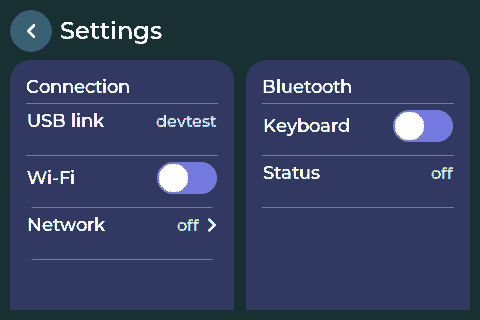
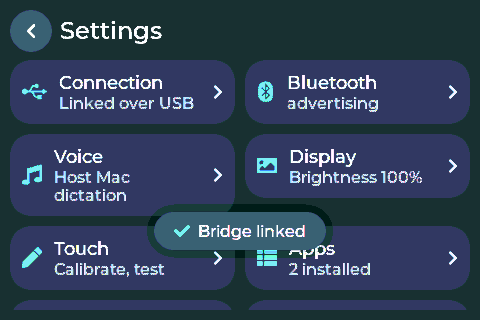
Settings as a section menu with light per-section screens (fixes the 4-inch layout and the out-of-memory crash); ui.show settings:<n>; gadget profile for the 4-inch ST7796 board

diff --git a/firmware/src/ui/ui_settings.cpp b/firmware/src/ui/ui_settings.cpp
@@ -51,17 +51,26 @@ static void doRemoveApplets() { for (auto& a : applets::list()) applets::remove(
 static void cbRemoveApplets(lv_event_t*) { confirm("Remove all applets?", "Every installed applet and its saved state is erased.", doRemoveApplets); }
 static void cbClearAutostart(lv_event_t*) { for (auto& a : applets::list()) if (a.autostart) applets::setAutostart(a.id, false); toast("Boots to the home screen"); showSettings(); }
 
-void showSettings() {
-  lv_obj_t* scr = newScreen(); statusBar(scr, "", "Settings", true);
-  lv_obj_t* list = scrollList(scr);
-  lv_obj_t* L = list, *R = list;
-  if (big()) {   // two columns of cards inside the scrolling list
-    lv_obj_t* row2 = lv_obj_create(list); lv_obj_remove_style_all(row2); lv_obj_set_size(row2, LV_PCT(100), LV_SIZE_CONTENT); lv_obj_set_flex_flow(row2, LV_FLEX_FLOW_ROW); lv_obj_set_flex_align(row2, LV_FLEX_ALIGN_START, LV_FLEX_ALIGN_START, LV_FLEX_ALIGN_START); lv_obj_set_style_pad_column(row2, 12, 0);
-    auto col = [&]() { lv_obj_t* c = lv_obj_create(row2); lv_obj_remove_style_all(c); lv_obj_set_flex_grow(c, 1); lv_obj_set_height(c, LV_SIZE_CONTENT); lv_obj_set_flex_flow(c, LV_FLEX_FLOW_COLUMN); lv_obj_set_style_pad_row(c, 12, 0); lv_obj_clear_flag(c, LV_OBJ_FLAG_SCROLLABLE); return c; };
-    L = col(); R = col();
+// Settings is a menu of sections; each section is its own light screen (a few rows), so even with a radio
+// stack resident there is heap to spare, and 480-wide boards get one calm column instead of a wall of rows.
+static int s_section = -1;
+static const char* kSectionNames[] = {"Connection", "Bluetooth", "Voice", "Display", "Touch", "Apps", "Storage", "About"};
+static const char* kSectionIcons[] = {LV_SYMBOL_USB, LV_SYMBOL_BLUETOOTH, LV_SYMBOL_AUDIO, LV_SYMBOL_IMAGE, LV_SYMBOL_EDIT, LV_SYMBOL_LIST, LV_SYMBOL_SD_CARD, LV_SYMBOL_SETTINGS};
+static String sectionSummary(int i) {
+  switch (i) {
+    case 0: return app::bridgeLinked() ? "Linked over " + app::linkSummary() : (g_settings.wifiEnabled ? bridge::wifiStatus() : String("USB, Wi-Fi off"));
+    case 1: return g_settings.bleEnabled ? blehid::status() : String("off");
+    case 2: return g_settings.dictSource == 1 ? "Device mic" : "Host Mac dictation";
+    case 3: { char b[24]; snprintf(b, sizeof(b), "Brightness %u%%", (unsigned)(g_settings.brightness * 100 / 255)); return b; }
+    case 4: return "Calibrate, test";
+    case 5: { char b[24]; snprintf(b, sizeof(b), "%u installed", (unsigned)applets::list().size()); return b; }
+    case 6: return sdInfo();
+    default: return "Musecorder " AITL_FW_VERSION;
   }
-
-  lv_obj_t* c = sectionCard(L, "Connection");
+}
+static void buildSection(lv_obj_t* c, int i) {
+  switch (i) {
+    case 0: {
   addAction(c, "USB link", app::bridgeLinked() && app::linkSummary() == "USB" ? app::bridgeName.c_str() : "plug in, run musecorder serve", nullptr, nullptr);
   addSwitch(c, "Wi-Fi", g_settings.wifiEnabled, cbWifi, nullptr);
   addAction(c, "Network", bridge::wifiStatus().c_str(), cbSsid, nullptr);
@@ -69,49 +78,49 @@ void showSettings() {
   addAction(c, "Bridge", bridge::bridgeStatus().c_str(), nullptr, nullptr);
   addAction(c, "Pair over network", bridge::hasBridgeCert() ? "paired (re-pair)" : "start", cbPair, nullptr);
   if (bridge::hasBridgeCert()) addAction(c, "Forget bridge", "", cbForget, nullptr);
-
-  c = sectionCard(R, "Bluetooth");
+      break; }
+    case 1: {
   addSwitch(c, big() ? "Keyboard" : "Bluetooth keyboard", g_settings.bleEnabled, cbBle, nullptr);
   addAction(c, "Status", blehid::status().c_str(), nullptr, nullptr);
   addDropdown(c, "Keystrokes via", "Bridge (USB/Wi-Fi)\nBluetooth HID", g_settings.hidTarget, cbHidTarget, nullptr);
   addDropdown(c, "BLE dictation key", "Right Cmd x2\nCtrl x2\nF5\nCmd+Opt+D", g_settings.dictShortcut, cbDictSc, nullptr);
   addSwitch(c, big() ? "Bridge link" : "Bridge link over BLE", g_settings.bleLink, cbBleLink, nullptr);
-
-  c = sectionCard(L, "Voice");
+      break; }
+    case 2: {
   addDropdown(c, "Microphone", "Host Mac\nDevice mic (P3)", g_settings.dictSource, cbDictSrc, nullptr);
   addDropdown(c, "Device mic sends to", "Ask Muse\nType into Mac", g_settings.dictTarget, cbDictTgt, nullptr);
   addSlider(c, "Mic gain", 1, 8, g_settings.micGain, cbMicGain, nullptr);
   addAction(c, "Mic test", "", cbMicTest, nullptr);
-
-  c = sectionCard(R, "Display");
+      break; }
+    case 3: {
   addSlider(c, "Brightness", 10, 255, g_settings.brightness, cbBright, nullptr);
   { static const uint16_t v[] = {10, 30, 60, 120, 300, 600, 0}; uint16_t sel = 3; for (int i = 0; i < 7; i++) if (v[i] == g_settings.screenTimeout) sel = i;
     addDropdown(c, "Dim after", "10 s\n30 s\n1 min\n2 min\n5 min\n10 min\nNever", sel, cbTimeout, nullptr); }
   addDropdown(c, "Rotation", "Portrait\nLandscape A\nPortrait flipped\nLandscape B", g_settings.rotation & 3, cbRotate, nullptr);
   addSwitch(c, "Invert colors", g_settings.invertColors, cbInvert, nullptr);
   addSwitch(c, "Swap red and blue", g_settings.bgrOrder, cbBgr, nullptr);
-
-  c = sectionCard(R, "Touch");
+      break; }
+    case 4: {
   addAction(c, "Calibrate touch", "", cbCal, nullptr);
   addAction(c, "Touch test", "draw", cbTouchTest, nullptr);
   { static const uint16_t v[] = {250, 400, 600, 900}; uint16_t sel = 1; for (int i = 0; i < 4; i++) if (v[i] == g_settings.longPressMs) sel = i;
     addDropdown(c, "Long-press time", "250 ms\n400 ms\n600 ms\n900 ms", sel, cbLongPress, nullptr); }
   addDropdown(c, "Sensitivity", "Instant\nNormal\nFirm\nDeliberate", g_settings.touchDebounce - 1, cbDebounce, nullptr);
   addSwitch(c, "LED flash on tap", g_settings.hapticLed, cbTapLed, nullptr);
-
-  c = sectionCard(L, "Apps");
+      break; }
+    case 5: {
   { auto apps = applets::list(); String auto_; for (auto& a : apps) if (a.autostart) auto_ = a.name;
     char n[40]; snprintf(n, sizeof(n), "%u installed", (unsigned)apps.size()); addAction(c, "Applets", n, cbApps, nullptr);
     addAction(c, "Running", applets::running() ? applets::runningName().c_str() : "none", nullptr, nullptr);
     addAction(c, "Open on boot", auto_.length() ? auto_.c_str() : "off", auto_.length() ? cbClearAutostart : nullptr, nullptr);
     { size_t tot = LittleFS.totalBytes(), used = LittleFS.usedBytes(); char f[40]; snprintf(f, sizeof(f), "%u KB free of %u", (unsigned)((tot - used) / 1024), (unsigned)(tot / 1024)); addAction(c, "Storage", f, nullptr, nullptr); }
     if (!apps.empty()) addAction(c, "Remove all applets", "", cbRemoveApplets, nullptr); }
-
-  c = sectionCard(L, "Storage");
+      break; }
+    case 6: {
   addAction(c, "microSD", sdInfo().c_str(), nullptr, nullptr);
   addSwitch(c, "Log chats to microSD", g_settings.sdLog, cbSdLog, nullptr);
-
-  c = sectionCard(R, "About");
+      break; }
+    case 7: {
   addAction(c, "Firmware", "Musecorder " AITL_FW_VERSION " / " AITL_BOARD_NAME, nullptr, nullptr);
   addAction(c, "Device ID", app::deviceId().c_str(), nullptr, nullptr);
   { String b = app::bridgeName.length() ? app::bridgeName + " " + app::bridgeVersion : String("none"); addAction(c, "Bridge", b.c_str(), nullptr, nullptr); }
@@ -122,6 +131,42 @@ void showSettings() {
   addAction(c, "Run setup again", "", cbWizard, nullptr);
   addAction(c, "Restart", "", cbReboot, nullptr);
   addAction(c, "Factory reset", "", cbReset, nullptr);
+      break; }
+    default: break;
+  }
+}
+static void evSection(lv_event_t* e) { s_section = (int)(uintptr_t)lv_event_get_user_data(e); showSettings(); }
+static void evSectionsBack(lv_event_t*) { s_section = -1; showSettings(); }
+void showSettingsRoot() { s_section = -1; showSettings(); }
+void showSettingsSection(int i) { s_section = (i >= 0 && i < 8) ? i : -1; showSettings(); }
+void showSettings() {
+  lv_obj_t* scr = newScreen();
+  if (s_section < 0) {
+    statusBar(scr, "", "Settings", true);
+    lv_obj_t* list = scrollList(scr);
+    lv_obj_t* grid = lv_obj_create(list); lv_obj_remove_style_all(grid); lv_obj_set_size(grid, LV_PCT(100), LV_SIZE_CONTENT);
+    lv_obj_set_flex_flow(grid, LV_FLEX_FLOW_ROW_WRAP); lv_obj_set_style_pad_gap(grid, big() ? 10 : 6, 0);
+    for (int i = 0; i < 8; i++) {
+      lv_obj_t* b = lv_btn_create(grid); lv_obj_remove_style_all(b); lv_obj_add_style(b, &card, 0); lv_obj_add_style(b, &pressed, LV_STATE_PRESSED);
+      lv_obj_set_width(b, big() ? LV_PCT(49) : LV_PCT(100)); lv_obj_set_height(b, LV_SIZE_CONTENT); lv_obj_set_style_pad_all(b, big() ? 12 : 10, 0);
+      lv_obj_set_flex_flow(b, LV_FLEX_FLOW_ROW); lv_obj_set_flex_align(b, LV_FLEX_ALIGN_START, LV_FLEX_ALIGN_CENTER, LV_FLEX_ALIGN_CENTER); lv_obj_set_style_pad_column(b, big() ? 12 : 10, 0);
+      lv_obj_t* ic = makeLabel(b, kSectionIcons[i], &body); lv_obj_set_style_text_color(ic, lv_color_hex(MU_TEAL), 0); lv_obj_set_style_text_font(ic, big() ? &lv_font_montserrat_20 : &lv_font_montserrat_16, 0);
+      lv_obj_t* col = lv_obj_create(b); lv_obj_remove_style_all(col); lv_obj_set_flex_grow(col, 1); lv_obj_set_height(col, LV_SIZE_CONTENT); lv_obj_set_flex_flow(col, LV_FLEX_FLOW_COLUMN); lv_obj_set_style_pad_row(col, 1, 0);
+      lv_obj_t* t = makeLabel(col, kSectionNames[i], &body); lv_obj_set_width(t, LV_PCT(100)); lv_label_set_long_mode(t, LV_LABEL_LONG_DOT);
+      lv_obj_t* sm = makeLabel(col, sectionSummary(i).c_str(), &caption); lv_obj_set_width(sm, LV_PCT(100)); lv_label_set_long_mode(sm, LV_LABEL_LONG_DOT);
+      lv_obj_t* ch = makeLabel(b, LV_SYMBOL_RIGHT, &caption); lv_obj_set_style_text_color(ch, lv_color_hex(MU_DIM), 0);
+      lv_obj_add_event_cb(b, evSection, LV_EVENT_CLICKED, (void*)(uintptr_t)i);
+    }
+    load(scr); return;
+  }
+  // one section: custom bar (back returns to the menu, not home)
+  lv_obj_t* bar = lv_obj_create(scr); lv_obj_remove_style_all(bar); lv_obj_set_size(bar, LV_PCT(100), chipH() + 8);
+  lv_obj_set_flex_flow(bar, LV_FLEX_FLOW_ROW); lv_obj_set_flex_align(bar, LV_FLEX_ALIGN_START, LV_FLEX_ALIGN_CENTER, LV_FLEX_ALIGN_CENTER); lv_obj_set_style_pad_column(bar, 8, 0);
+  lv_obj_t* bk = makeIconButton(bar, LV_SYMBOL_LEFT, chipH() + 8, evSectionsBack); lv_obj_set_ext_click_area(bk, 10);
+  lv_obj_t* t = makeLabel(bar, kSectionNames[s_section], &title); lv_obj_set_style_text_font(t, big() ? &lv_font_montserrat_24 : &lv_font_montserrat_18, 0); lv_obj_set_flex_grow(t, 1);
+  lv_obj_t* list = scrollList(scr);
+  lv_obj_t* c = makeCard(list); lv_obj_set_style_pad_row(c, 0, 0); lv_obj_set_width(c, LV_PCT(100));
+  buildSection(c, s_section);
   load(scr);
 }
 

diff --git a/gadget/port/apply.py b/gadget/port/apply.py
@@ -18,15 +18,16 @@ def edit(path: pathlib.Path, pairs, must=True):
         path.write_text(s, encoding="utf-8"); print("  patched", path.relative_to(root))
 
 shutil.copy(here / "sdkconfig.cyd24", root / "devices" / "sdkconfig.cyd24")
+shutil.copy(here / "sdkconfig.cyd40", root / "devices" / "sdkconfig.cyd40")
 shutil.copy(here / "partitions_cyd24_4mb.csv", root / "partitions_cyd24_4mb.csv")
-print("  copied devices/sdkconfig.cyd24, partitions_cyd24_4mb.csv")
+print("  copied devices/sdkconfig.cyd24, devices/sdkconfig.cyd40, partitions_cyd24_4mb.csv")
 
 k = root / "main" / "Kconfig.projbuild"
 if MARK not in k.read_text():
     edit(k, [
         ('        config HOMEHUB_LED_BACKEND_WAVESHARE_C6_ST7789\n            bool "Waveshare ESP32-C6-LCD-1.47 inch ST7789 display (status bars)"\n            depends on IDF_TARGET_ESP32C6\n',
-         '        config HOMEHUB_LED_BACKEND_WAVESHARE_C6_ST7789\n            bool "Waveshare ESP32-C6-LCD-1.47 inch ST7789 display (status bars)"\n            depends on IDF_TARGET_ESP32C6\n\n        config HOMEHUB_LED_BACKEND_CYD_ILI9341\n            bool "Sunton CYD 2.4/2.8 inch ILI9341 display (status bars)"\n            depends on IDF_TARGET_ESP32\n'),
-        ('        default y if HOMEHUB_LED_BACKEND_WAVESHARE_C6_ST7789\n', '        default y if HOMEHUB_LED_BACKEND_WAVESHARE_C6_ST7789\n        default y if HOMEHUB_LED_BACKEND_CYD_ILI9341\n'),
+         '        config HOMEHUB_LED_BACKEND_WAVESHARE_C6_ST7789\n            bool "Waveshare ESP32-C6-LCD-1.47 inch ST7789 display (status bars)"\n            depends on IDF_TARGET_ESP32C6\n\n        config HOMEHUB_LED_BACKEND_CYD_ILI9341\n            bool "Sunton CYD 2.4/2.8 inch ILI9341 display (status bars)"\n            depends on IDF_TARGET_ESP32\n\n        config HOMEHUB_LED_BACKEND_CYD_ST7796\n            bool "Hosyond 4.0 inch ST7796 display (status bars)"\n            depends on IDF_TARGET_ESP32\n'),
+        ('        default y if HOMEHUB_LED_BACKEND_WAVESHARE_C6_ST7789\n', '        default y if HOMEHUB_LED_BACKEND_WAVESHARE_C6_ST7789\n        default y if HOMEHUB_LED_BACKEND_CYD_ILI9341\n        default y if HOMEHUB_LED_BACKEND_CYD_ST7796\n'),
     ])
 
 c = root / "main" / "led_status.c"
@@ -34,8 +35,8 @@ if MARK not in c.read_text():
     s = c.read_text(encoding="utf-8")
     both = "CONFIG_HOMEHUB_LED_BACKEND_IDEASPARK_ST7789 || CONFIG_HOMEHUB_LED_BACKEND_WAVESHARE_C6_ST7789"
     n = s.count(f"#if {both}")
-    s = s.replace(f"#if {both}", f"#if {both} || CONFIG_{MARK}")
-    s = s.replace('#include "esp_lcd_panel_st7789.h"\n', f'#include "esp_lcd_panel_st7789.h"\n#if CONFIG_{MARK}\n#include "esp_lcd_panel_ili9341.h"\n#endif\n', 1)
+    s = s.replace(f"#if {both}", f"#if {both} || CONFIG_{MARK} || CONFIG_HOMEHUB_LED_BACKEND_CYD_ST7796")
+    s = s.replace('#include "esp_lcd_panel_st7789.h"\n', f'#include "esp_lcd_panel_st7789.h"\n#if CONFIG_{MARK}\n#include "esp_lcd_panel_ili9341.h"\n#endif\n#if CONFIG_HOMEHUB_LED_BACKEND_CYD_ST7796\n#include "esp_lcd_panel_st7796.h"\n#endif\n', 1)
     block = f'''#elif CONFIG_{MARK}
 // Sunton ESP32-2432S024C / 2432S028: 240x320 ILI9341 on HSPI, backlight on GPIO27, reset tied to EN.
 #define LCD_NAME         "CYD ILI9341"
@@ -54,6 +55,24 @@ if MARK not in c.read_text():
 #define LCD_ANIM_SCALE   4
 #define LCD_DOT_MARGIN   6
 #define LCD_BUF_CAPS     MALLOC_CAP_DMA
+#elif CONFIG_HOMEHUB_LED_BACKEND_CYD_ST7796
+// Hosyond 4.0" ESP32-32E: 320x480 ST7796 on HSPI, backlight GPIO27, reset tied to EN, panel needs inversion.
+#define LCD_NAME         "CYD ST7796"
+#define LCD_HOST         SPI2_HOST
+#define LCD_PIN_SCLK     14
+#define LCD_PIN_MOSI     13
+#define LCD_PIN_CS       15
+#define LCD_PIN_DC       2
+#define LCD_PIN_RST      -1
+#define LCD_PIN_BL       27
+#define LCD_PCLK_HZ      (40 * 1000 * 1000)
+#define LCD_H_RES        320
+#define LCD_V_RES        480
+#define LCD_X_GAP        0
+#define LCD_BAR_ROWS     16
+#define LCD_ANIM_SCALE   5
+#define LCD_DOT_MARGIN   8
+#define LCD_BUF_CAPS     MALLOC_CAP_DMA
 #endif
 
 #if CONFIG_HOMEHUB_DISPLAY'''
@@ -61,7 +80,7 @@ if MARK not in c.read_text():
     if old not in s: sys.exit("apply.py: backend block anchor not found in led_status.c")
     s = s.replace(old, "#define LCD_BUF_CAPS     MALLOC_CAP_DMA\n" + block, 1)
     old = "    if (err == ESP_OK) err = esp_lcd_new_panel_st7789(io, &panel_cfg, &s_panel);"
-    new = f"#if CONFIG_{MARK}\n    if (err == ESP_OK) err = esp_lcd_new_panel_ili9341(io, &panel_cfg, &s_panel);\n#else\n    if (err == ESP_OK) err = esp_lcd_new_panel_st7789(io, &panel_cfg, &s_panel);\n#endif"
+    new = f"#if CONFIG_{MARK}\n    if (err == ESP_OK) err = esp_lcd_new_panel_ili9341(io, &panel_cfg, &s_panel);\n#elif CONFIG_HOMEHUB_LED_BACKEND_CYD_ST7796\n    if (err == ESP_OK) err = esp_lcd_new_panel_st7796(io, &panel_cfg, &s_panel);\n#else\n    if (err == ESP_OK) err = esp_lcd_new_panel_st7789(io, &panel_cfg, &s_panel);\n#endif"
     if old not in s: sys.exit("apply.py: panel creation anchor not found")
     s = s.replace(old, new, 1)
     old = "    if (err == ESP_OK) err = esp_lcd_panel_invert_color(s_panel, true);"
@@ -69,12 +88,12 @@ if MARK not in c.read_text():
     if old not in s: sys.exit("apply.py: invert anchor not found")
     s = s.replace(old, new, 1)
     old = "        .rgb_ele_order = LCD_RGB_ELEMENT_ORDER_RGB,"
-    new = f"#if CONFIG_{MARK}\n        .rgb_ele_order = LCD_RGB_ELEMENT_ORDER_BGR,   // ILI9341 CYD panels take BGR; flip if orange shows as blue\n#else\n        .rgb_ele_order = LCD_RGB_ELEMENT_ORDER_RGB,\n#endif"
+    new = f"#if CONFIG_{MARK} || CONFIG_HOMEHUB_LED_BACKEND_CYD_ST7796\n        .rgb_ele_order = LCD_RGB_ELEMENT_ORDER_BGR,   // CYD panels take BGR; flip if orange shows as blue\n#else\n        .rgb_ele_order = LCD_RGB_ELEMENT_ORDER_RGB,\n#endif"
     if old not in s: sys.exit("apply.py: rgb order anchor not found")
     s = s.replace(old, new, 1)
     c.write_text(s, encoding="utf-8"); print(f"  patched main/led_status.c ({n} backend guards widened)")
 
 y = root / "main" / "idf_component.yml"
 if "esp_lcd_ili9341" not in y.read_text():
-    edit(y, [('  espressif/led_strip: "~3.0"\n', '  espressif/led_strip: "~3.0"\n  espressif/esp_lcd_ili9341: "^1"\n')])
+    edit(y, [('  espressif/led_strip: "~3.0"\n', '  espressif/led_strip: "~3.0"\n  espressif/esp_lcd_ili9341: "^1"\n  espressif/esp_lcd_st7796: "^1"\n')])
 print("port applied")

diff --git a/firmware/src/core/app.cpp b/firmware/src/core/app.cpp
@@ -317,7 +317,7 @@ static void onMessage(JsonDocument& d, bridge::Transport from) {
   } else if (!strcmp(t, "ui.show")) {   // host-driven navigation (screenshots, demos)
     const char* sc = d["screen"] | "home"; bool ok = true;
     if (!strcmp(sc, "home")) ui::showHome(); else if (!strcmp(sc, "boot")) ui::showBoot(); else if (!strcmp(sc, "apps")) ui::showApps(); else if (!strcmp(sc, "applet")) ui::showApplet();
-    else if (!strcmp(sc, "settings")) ui::showSettings(); else if (!strcmp(sc, "models")) ui::showModels(); else if (!strcmp(sc, "chats")) ui::showChats();
+    else if (!strcmp(sc, "settings")) ui::showSettingsRoot(); else if (!strncmp(sc, "settings:", 9)) ui::showSettingsSection(atoi(sc + 9)); else if (!strcmp(sc, "models")) ui::showModels(); else if (!strcmp(sc, "chats")) ui::showChats();
     else if (!strcmp(sc, "actions")) ui::showActions(); else if (!strcmp(sc, "compose")) ui::showCompose(0); else if (!strcmp(sc, "inbox")) ui::showInbox();
     else if (!strcmp(sc, "wizard")) ui::showSetupWizard(); else if (!strcmp(sc, "calibrate")) ui::showCalibrate(false); else if (!strcmp(sc, "touchtest")) ui::showTouchTest();
     else ok = false;

diff --git a/firmware/src/ui/ui.cpp b/firmware/src/ui/ui.cpp
@@ -269,7 +269,7 @@ static void evChats(lv_event_t*) { showChats(); }
 static void evDict(lv_event_t*) { app::dictation("toggle"); }
 static void evType(lv_event_t*) { showCompose(0); }
 static void evApps(lv_event_t*) { showApps(); }
-static void evSettings(lv_event_t*) { showSettings(); }
+static void evSettings(lv_event_t*) { showSettingsRoot(); }
 static void evStop(lv_event_t*) { app::stopGeneration(); }
 static void evPaste(lv_event_t*) { app::pasteLastReply(); toast("Typing the reply into the Mac"); }
 static void evCopy(lv_event_t*) { app::copyLastReply(); toast("Copied to the Mac clipboard"); }

diff --git a/firmware/src/ui/ui.h b/firmware/src/ui/ui.h
@@ -12,6 +12,8 @@ namespace ui {
   void showActions();
   void showCompose(int target);       // 0 = AI, 1 = Mac keyboard
   void showSettings();
+  void showSettingsRoot();
+  void showSettingsSection(int i);     // 0 Connection … 7 About (ui.show "settings:3")            // the section menu (showSettings reopens the last section after a change)
   void showCalibrate(bool fromWizard);
   void showTouchTest();
   void showSetupWizard();
